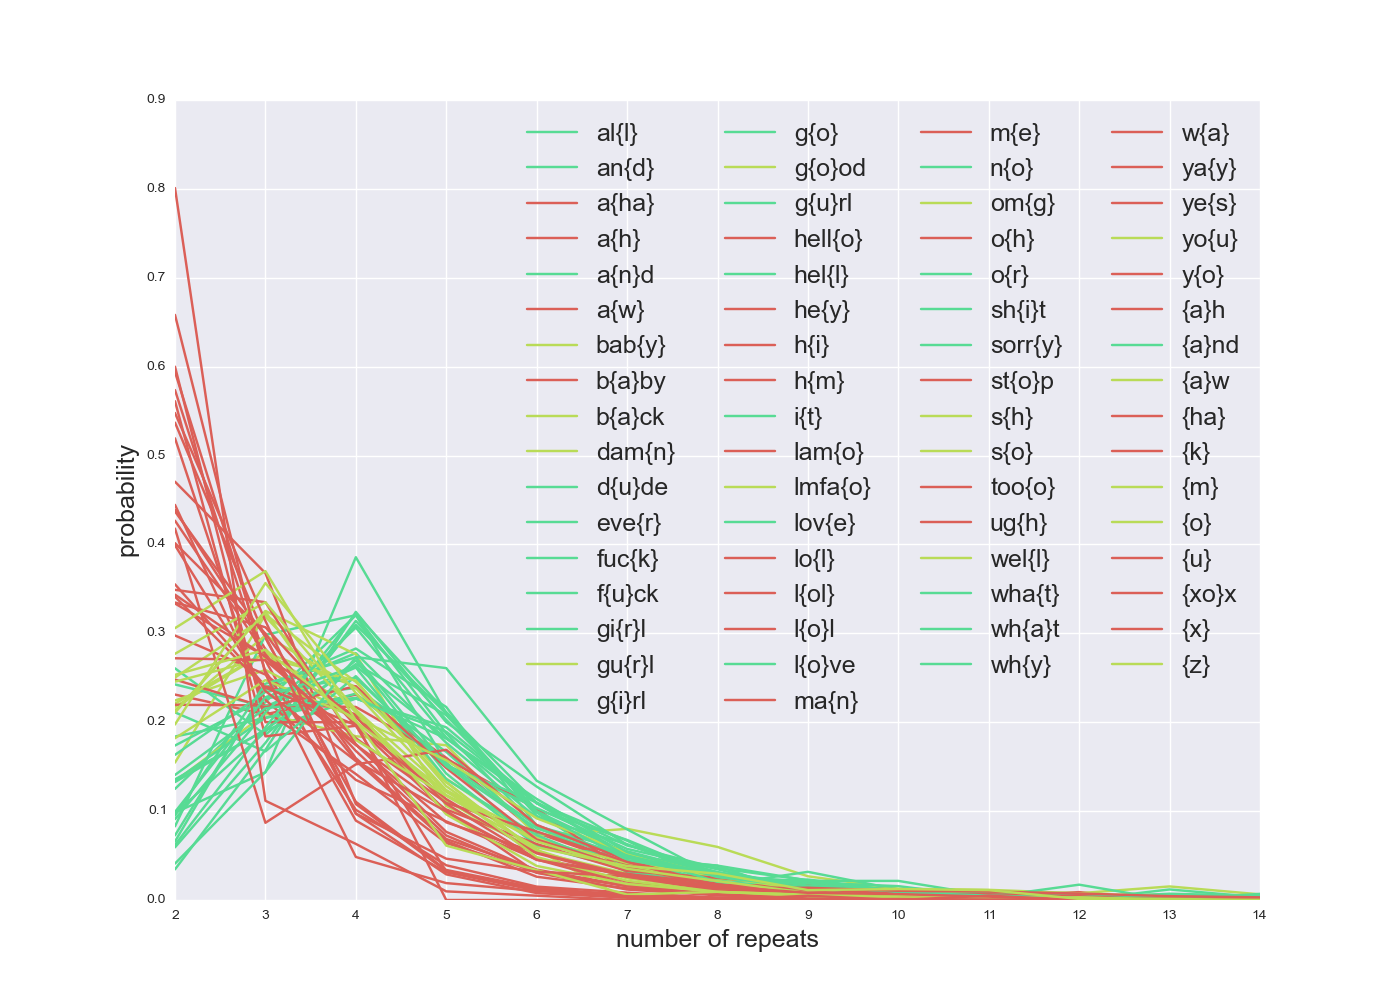
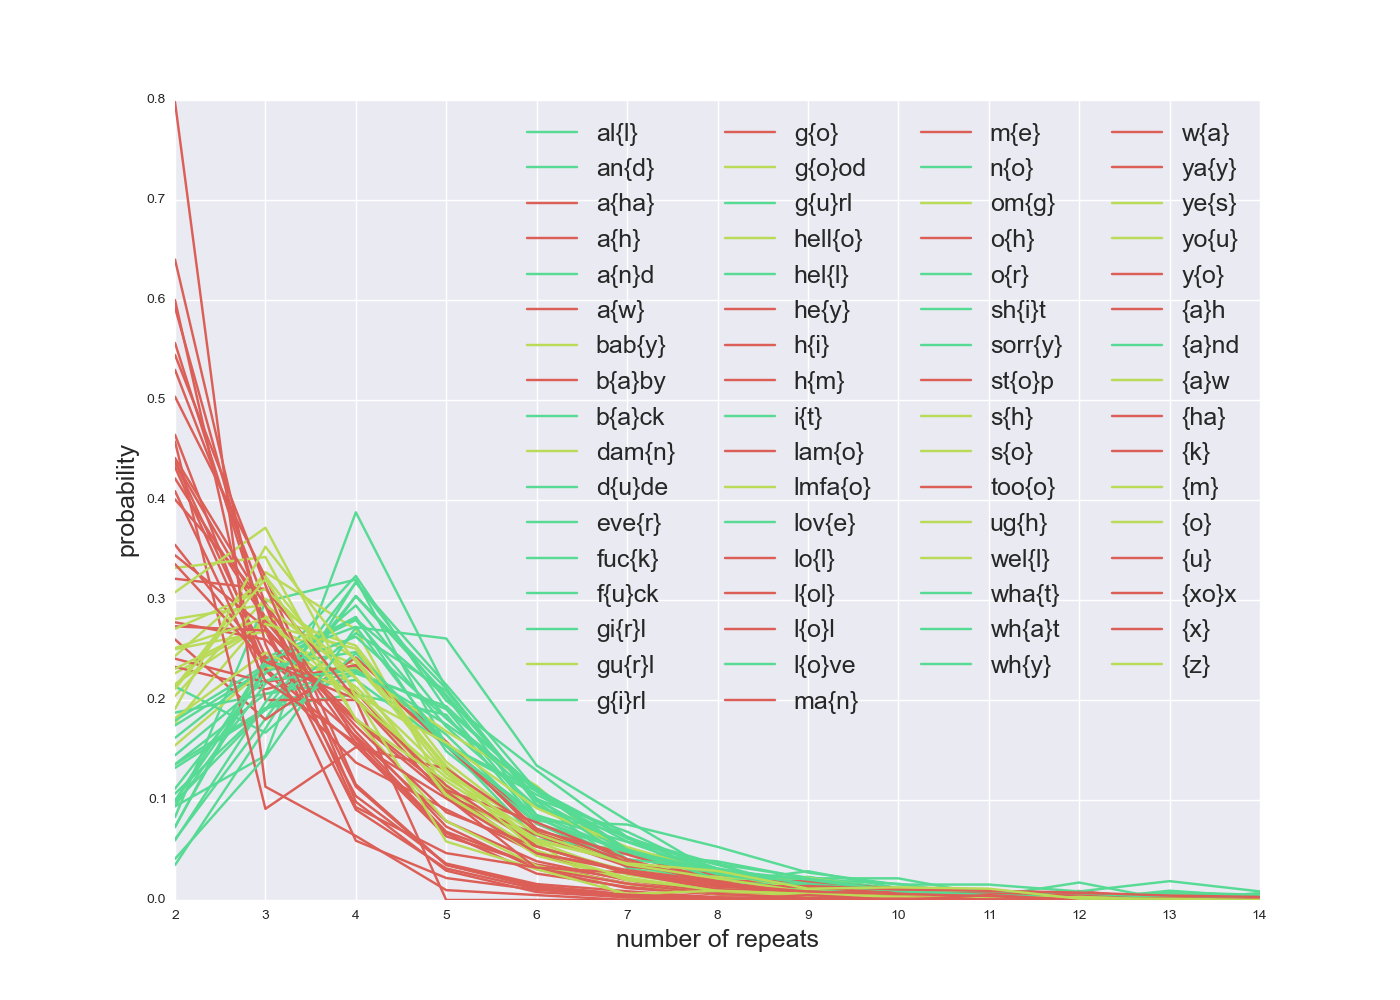
Updates to filters

diff --git a/extract_counts.py b/extract_counts.py
@@ -1,0 +1,85 @@
+from collections import Counter
+
+URL = {True : Counter(), False : Counter()}
+MENTION = {True : Counter(), False : Counter()}
+
+C = Counter()
+
+with open("all_unique_tweets.txt") as FIN:
+    for k,line in enumerate(FIN):
+        tokens = line.split()
+
+        em = [x.replace("EMOJI_","") for x in tokens if "EMOJI_" in x]
+        em = set(em)
+
+        C.update(tokens)
+
+        if "URL" in tokens:
+            URL[True].update(em)
+        else:
+            URL[False].update(em)
+
+        if "@" in tokens:
+            MENTION[True].update(em)
+        else:
+            MENTION[False].update(em)
+
+        if k%10000==0:
+            print k
+                
+
+        #if k>50000:
+        #    break
+
+
+import pandas as pd
+
+keys = URL[True].keys()+URL[False].keys()+MENTION[True].keys()+MENTION[False].keys()
+keys = set(keys) 
+
+df = pd.DataFrame(index=keys)
+
+df["URL1"] = 0.0
+df["URL0"] = 0.0
+df["MENTION1"] = 0.0
+df["MENTION0"] = 0.0
+
+for key,val in URL[True].items(): df["URL1"][key] = val
+for key,val in URL[False].items(): df["URL0"][key] = val
+
+for key,val in MENTION[True].items(): df["MENTION1"][key] = val
+for key,val in MENTION[False].items(): df["MENTION0"][key] = val
+
+for key in df:
+    df[key] /= df[key].sum()
+
+s = (df["URL1"]-df["URL0"])
+
+s.sort()
+with open("delta_url.txt",'w') as FOUT:
+    for key in s.keys():
+        st = "{:45s} {:0.4f}".format(key,s[key])
+        FOUT.write(st+'\n')
+        print st
+
+
+s = (df["MENTION1"]-df["MENTION0"])
+s.sort()
+with open("delta_mention.txt",'w') as FOUT:
+    for key in s.keys():
+        st = "{:45s} {:0.4f}".format(key,s[key])
+        FOUT.write(st+'\n')
+        print st
+
+
+s = pd.Series(C)
+s.sort()
+
+with open("delta_all.txt",'w') as FOUT:
+    for key in s.keys():
+        st = "{:45s} {:d}".format(key,s[key])
+        FOUT.write(st+'\n')
+        print st
+        
+
+    

diff --git a/find_emoji_noun_phrases.py b/find_emoji_noun_phrases.py
@@ -2,11 +2,14 @@ from collections import Counter, defaultdict
 import os, tqdm
 import numpy as np
 from scipy.ndimage.measurements import label
-
 import itertools, multiprocessing
+# rm -f all_unique_tweets.txt && cat all_parsed_tweets.txt | unique all_unique_tweets.txt
+
 
 ngrams = defaultdict(Counter)
-total_tweets = 13135376
+total_tweets = 10984240
+
+f_tweets = "all_unique_tweets.txt"
 
 def solve_mask(line):
 
@@ -21,7 +24,7 @@ def solve_mask(line):
     return (tokens, feature_mask, n_features)
     
 
-with open("all_parsed_tweets.txt") as FIN:
+with open(f_tweets) as FIN:
     pbar = tqdm.tqdm(total=total_tweets)
 
     #ITR = itertools.imap(solve_mask, FIN)

diff --git a/src/preprocessing.py b/src/preprocessing.py
@@ -165,6 +165,23 @@ def remove_emoji_modifier(t):
 
 
 
+@pipeline_function
+def remove_repeat_spam(t):
+    '''
+    Remove tweets with numbers at the end or x{number}
+    '''
+    tokens = t.split()
+    last_token = tokens[-1]
+    if last_token.isnumeric() and int(last_token) != 2:
+        return ""
+
+    # Look for x7 x23198 etc...
+    if len(last_token)>=2 and last_token[1:].isnumeric():
+        return ""
+    
+    return t
+
+
 #####################################################################
 
 #import spacy.en

diff --git a/parse.py b/parse.py
@@ -81,5 +81,7 @@ def parsed_tweet_iterator():
 if __name__ == "__main__":
        
     for t in parsed_tweet_iterator():
-        print t
+        if t:
+            print t
+            
                     
